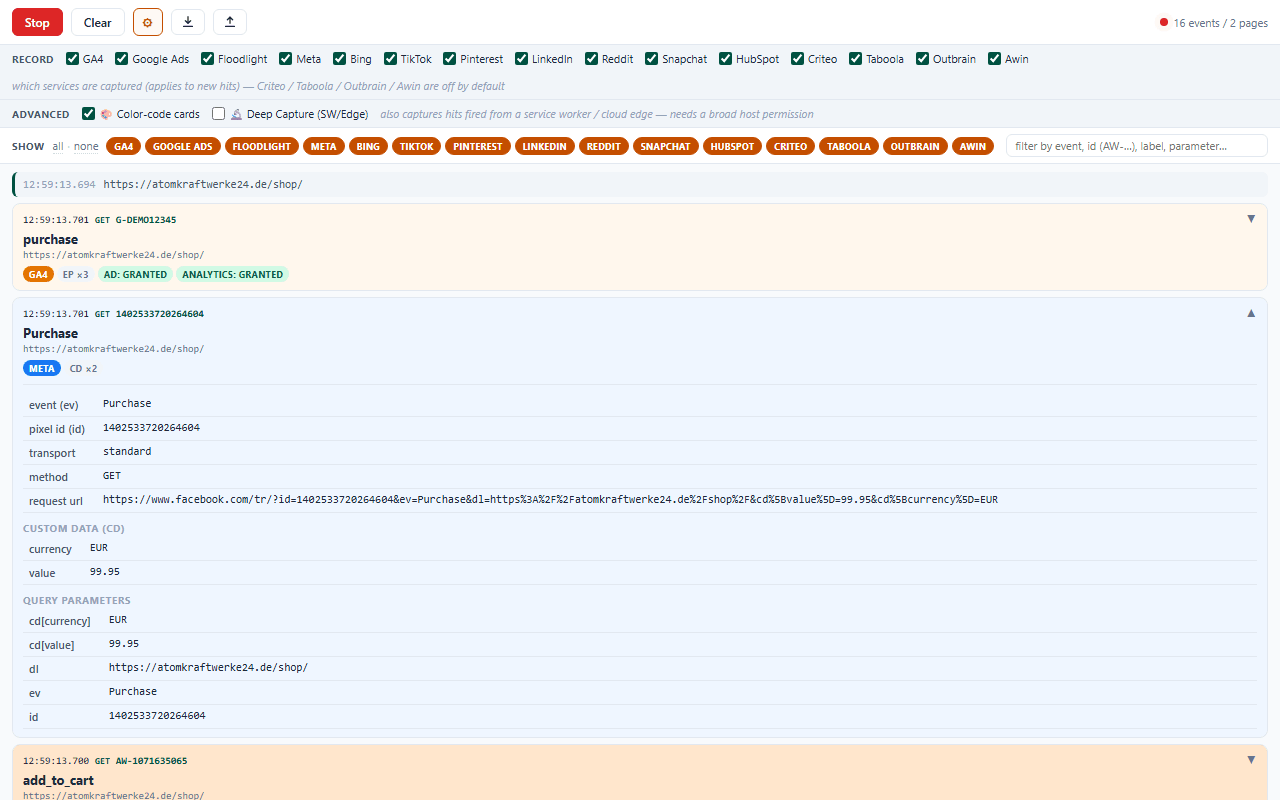
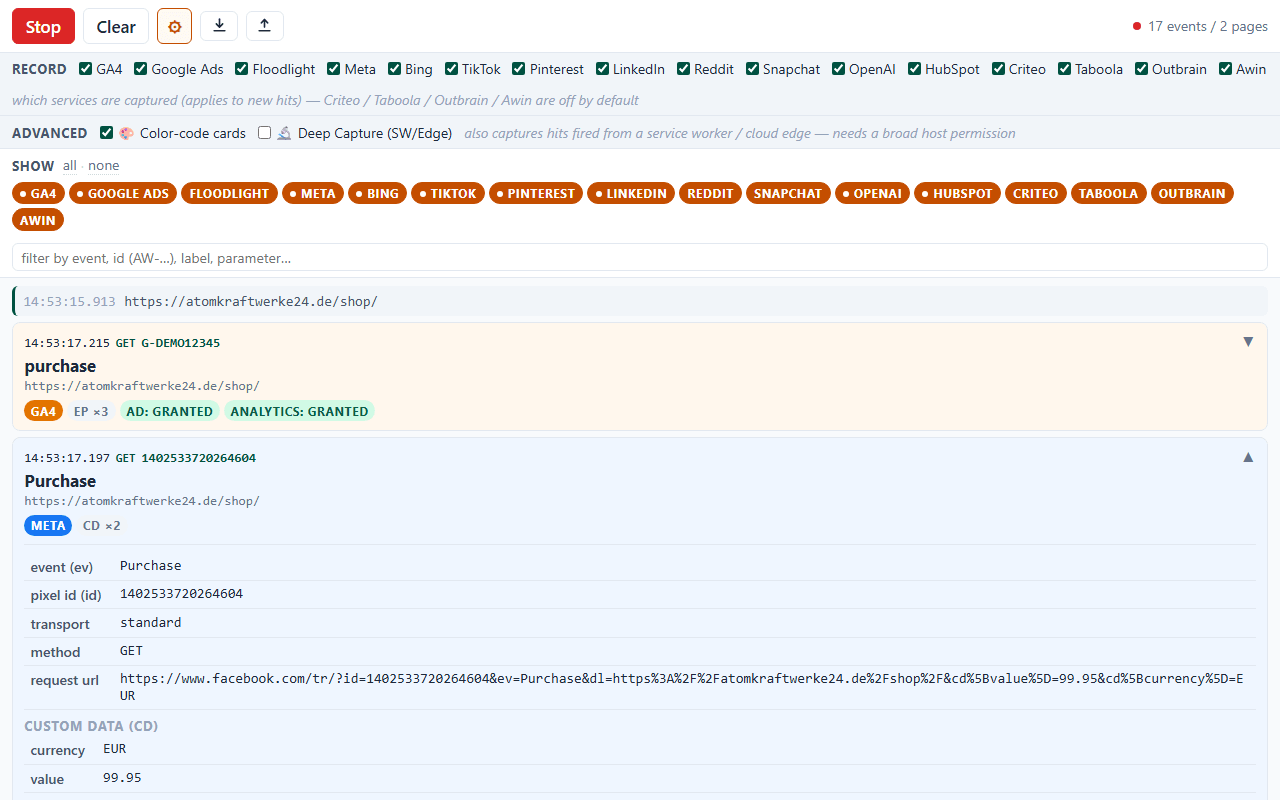
build(screenshots): show the OpenAI pixel in the store assets
The demo capture had no OpenAI hit, so the service that headlines 1.1.0
appeared nowhere in the shots — its filter pill sat there unlit while
every other recorded service pulsed. Adds an order_created to the shop
block, third from top so it is visible in the overview without displacing
GA4 or Meta from the roles the other shots depend on.

The card was chosen to show what the parser does beyond naming an event:
the amount arrives in minor units and is converted, and the user block is
split by origin — what the site passed to init versus what automatic
advanced matching scraped off the page. Two different demo hashes so both
rows read as distinct.

All six assets are regenerated: the four UI shots pick up the new type
scale, and the promo tiles gain the OpenAI chip (they derive their list
from PROVIDER_ORDER and had not been rebuilt since the provider landed).

Also carries the v.0.9.0 → v0.9.0 typo fix in the listing text.

diff --git a/scripts/fixtures-demo.js b/scripts/fixtures-demo.js
@@ -59,6 +59,34 @@ const hubspotForm = JSON.stringify({
   version: 'collected-forms-embed-js-static-1.4883', collectedFormId: 'contact-form',
 });
 
+// OpenAI ads pixel order_created. Shows what the card can do that no pixel
+// helper does: the amount arrives in minor units (9995 → 99.95 EUR), and the
+// user block is split by origin — `in` is what the site passed to init, `fm` is
+// what automatic advanced matching scraped off the page. Two different demo
+// hashes so both rows are visibly distinct.
+const openaiOrder = JSON.stringify({
+  obref: 'a7f3c1d2-4e5b-4a91-8c3d-2b6e9f0a1c47',
+  oppref: 'oai-demo-click-1024',
+  events: [{
+    type: 'order_created',
+    timestamp_ms: 1782761414000,
+    id: 'ORD-1024',
+    source_url: 'https://atomkraftwerke24.de/shop/',
+    data: {
+      type: 'contents', amount: 9995, currency: 'EUR',
+      contents: [{ id: '119', name: 'Fuel Rods (6-pack)', content_type: 'product', quantity: 1, amount: 9995, currency: 'EUR' }],
+    },
+  }],
+  user: {
+    in: {
[2 lines of base64/hex data omitted]
+      co: 'DE', ct: 'Hamburg',
+    },
[1 lines of base64/hex data omitted]
+  },
+});
+
 // Each block is one page load. requests[] are replayed in order, and the panel
 // stacks newest-on-top — so the LAST request in a block becomes that block's top
 // card. Order is deliberately GA4-last (top) and HubSpot-first (bottom): GA4 is
@@ -105,6 +133,9 @@ export const DEMO_BLOCKS = [
       { url: 'https://bat.bing.com/action/0?ti=111111111111&tm=gtm002&Ver=2&mid=efaaf29c-46db-49ce-9945-7bfc2a75fb45&bo=6&msclkid=N&prodid=42&pagetype=purchase&ecomm_totalvalue=99.95&ecomm_category=Accessories&tpp=1&ea=purchase&gv=99.95&en=Y&p=https%3A%2F%2Fatomkraftwerke24.de%2Fshop%2F&sw=1920&sh=1080&sc=32&evt=custom&asc=G&cdb=AQAS&rn=957294' },
       // Google Ads measurement add_to_cart
       { url: 'https://www.google.com/ccm/collect?rcb=18&frm=0&ae=g&auid=1235240376.1778240583&dt=Shop&en=add_to_cart&dl=https%3A%2F%2Fatomkraftwerke24.de%2Fshop%2F&rnd=294733418.1782761414&navt=r&npa=0&epn.value=99.95&_tu=CA&gtm=45Pe66p0v9210171140&gcs=G111&gcd=13r3r3r2r5l1&dma=1&tids=AW-1071635065&tid=AW-1071635065&fmt=8' },
+      // OpenAI ads pixel order_created — third from top, so the newest service
+      // is visible in the overview shot without displacing GA4 or Meta.
+      { url: 'https://bzr.openai.com/v1/sdk/events?pid=DemoPixel0123456789abc&st=oaiq-web&sv=0.1.32&t=1782761414100&ec=1', method: 'POST', postData: { text: openaiOrder } },
       // Meta Purchase (second-to-top)
       { url: 'https://www.facebook.com/tr/?id=1402533720264604&ev=Purchase&dl=https%3A%2F%2Fatomkraftwerke24.de%2Fshop%2F&cd%5Bvalue%5D=99.95&cd%5Bcurrency%5D=EUR' },
       // GA4 purchase — top card overall; 02-event-detail expands this one
